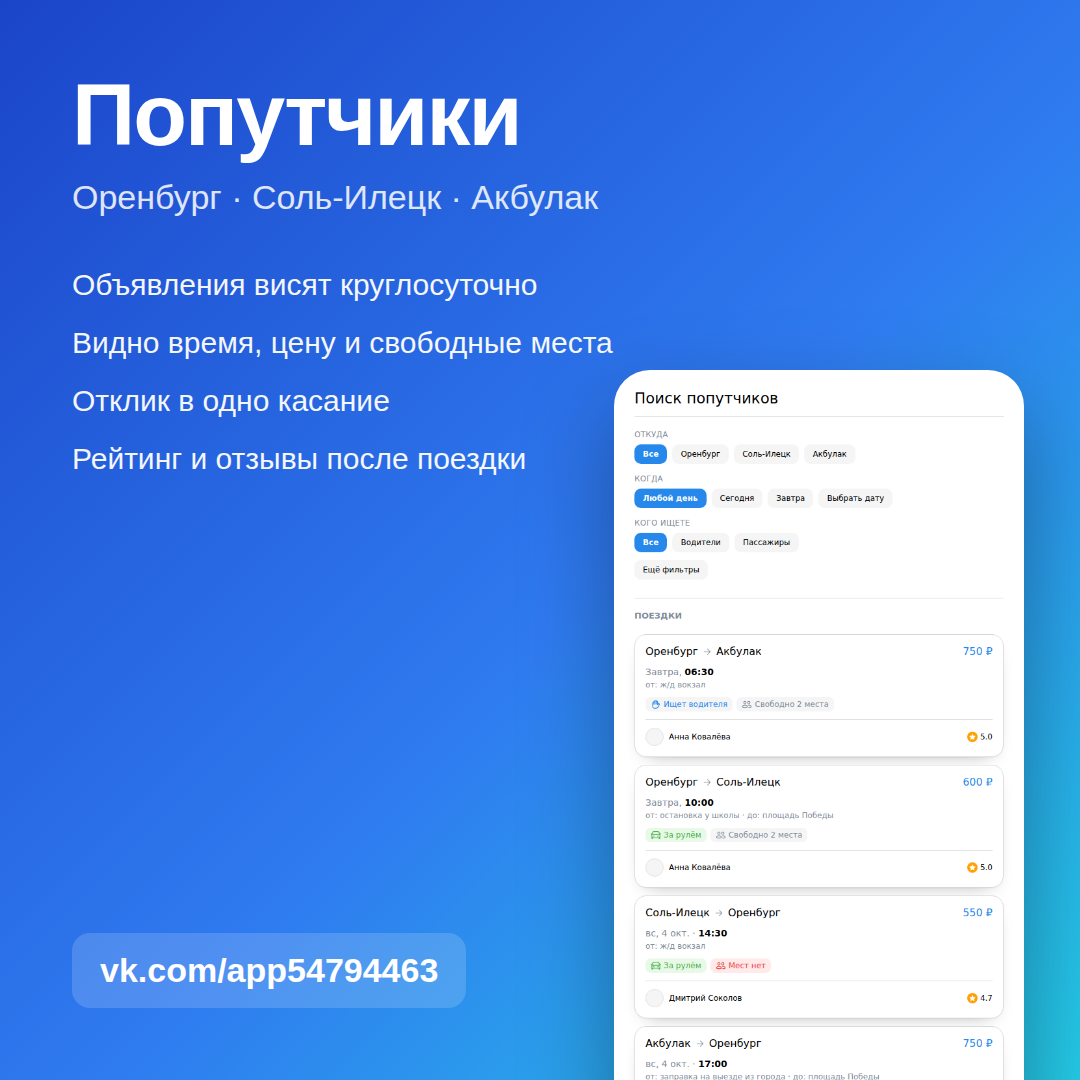
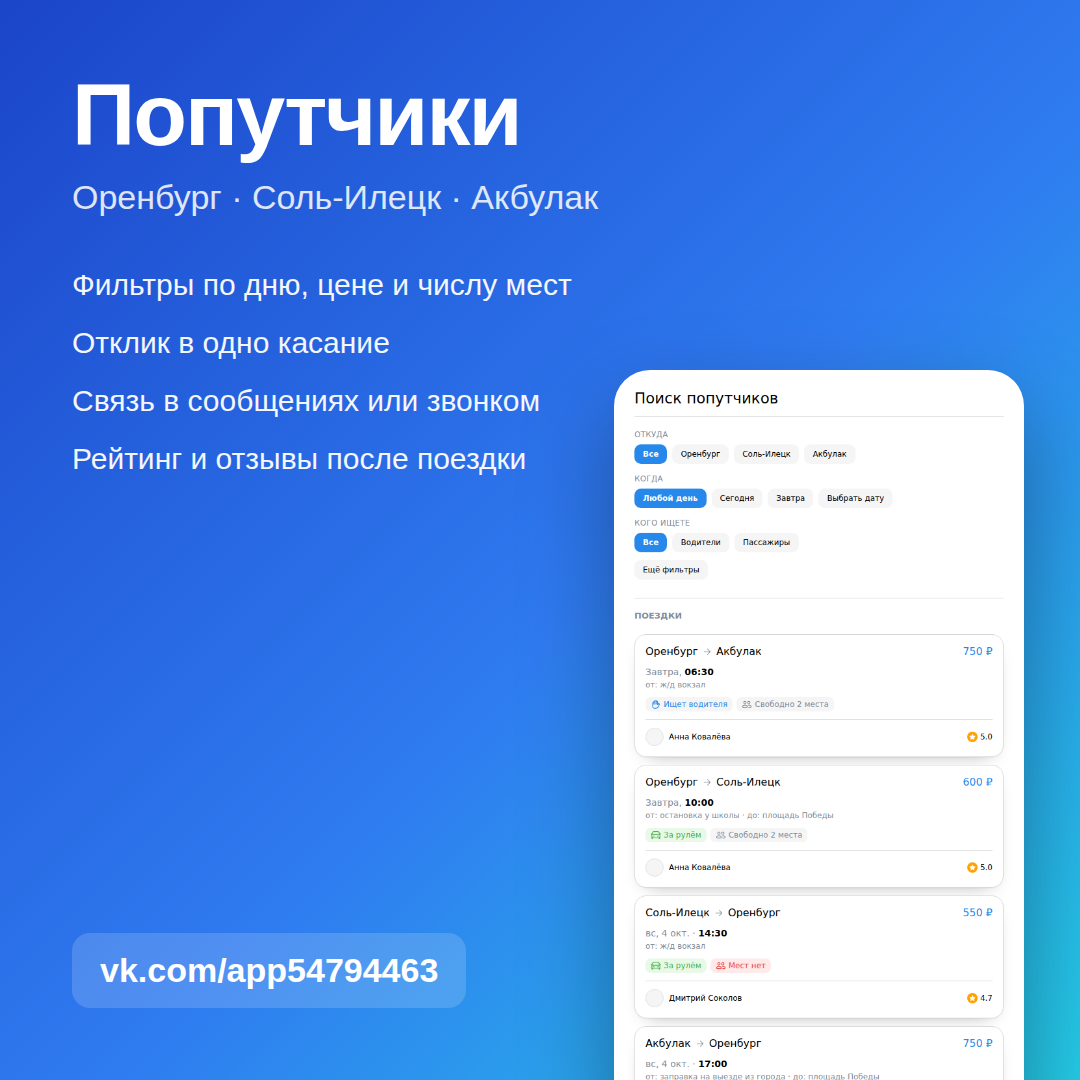
design: переписан пост для паблика, убраны два довода
Из всех трёх вариантов текста и с обложки убраны «объявления висят
круглосуточно» (то же самое есть у конкурента, преимуществом не читается)
и «комиссию не берём» (при будущей монетизации для водителей эту фразу
начнут цитировать против нас).

Пост для паблика переписан: приложение теперь описано по качествам —
фильтры, роль автора, отклики с пересчётом мест, два способа связи,
рейтинг, автоснятие прошедших поездок. Сравнение с конкурентом сведено к
трём пунктам: плохо работает, старый интерфейс, мало функций.

Конкурент нигде не назван; в файле добавлен раздел, объясняющий почему, и
раздел о том, каких доводов в текстах нет и по какой причине.

На обложке вместо «круглосуточно» — «Фильтры по дню, цене и числу мест»,
второй пункт заменён на «Связь в сообщениях или звонком», чтобы четыре
довода не повторяли друг друга.

Claude-Session: https://claude.ai/code/session_01RjM5KUjrPyMD97q32CVPv1

Changed region(s): [[0.0611, 0.3056, 0.5806, 0.3361], [0.0611, 0.3667, 0.5194, 0.3972], [0.0611, 0.2444, 0.5194, 0.275]]

diff --git a/design/promo/_promo-main.html b/design/promo/_promo-main.html
@@ -45,9 +45,9 @@
     <h1>Попутчики</h1>
     <div class="sub">Оренбург · Соль-Илецк · Акбулак</div>
     <div class="points">
-      <div>Объявления висят круглосуточно</div>
-      <div>Видно время, цену и свободные места</div>
+      <div>Фильтры по дню, цене и числу мест</div>
       <div>Отклик в одно касание</div>
+      <div>Связь в сообщениях или звонком</div>
       <div>Рейтинг и отзывы после поездки</div>
     </div>
   </div>

diff --git a/design/promo/post-text.md b/design/promo/post-text.md
@@ -5,6 +5,9 @@
 откроется страница с плашкой «доступно только автору», и вся реклама
 уйдёт впустую.
 
+Конкурент нигде не назван по имени намеренно — см. «Про сравнение с
+конкурентом» в конце файла.
+
 ---
 
 ## Вариант 1 — пост в городском паблике ВКонтакте
@@ -13,24 +16,50 @@
 охотнее, когда рекомендует «свой».
 
 ```
-Кто ездит Оренбург — Соль-Илецк — Акбулак, вам пригодится.
+Кто ездит Оренбург — Соль-Илецк — Акбулак, тут для вас кое-что сделали.
 
-Знакомая история: нужно уехать завтра утром, пишешь в три чата, ждёшь,
-пока кто-нибудь ответит, а список попутчиков выкладывают дай бог пару раз
-в неделю.
+Как мы ищем попутчиков сейчас, вы и без меня знаете. Пользуемся тем, что
+есть, потому что выбора не было: грузится через раз, половина кнопок не
+нажимается, выглядит так, будто сайт собрали лет десять назад и с тех
+пор не открывали. Нашёл поездку — и дальше выясняй всё в личке с нуля:
+во сколько, откуда, сколько мест ещё осталось.
 
-Ребята сделали приложение прямо во ВКонтакте — открывается по ссылке, 
-ставить ничего не надо.
+Наши ребята сделали своё приложение — «Попутчики». Работает прямо во
+ВКонтакте: открывается по ссылке, качать и ставить ничего не нужно.
 
-Что там есть:
-— объявления висят круглосуточно, а не по расписанию админа
-— сразу видно время выезда, цену и сколько мест свободно
-— откликаешься в одно касание, водитель сам решает, кого взять
-— после поездки оставляете друг другу отзывы, и в следующий раз понятно,
-  с кем едешь
+Что в нём есть:
 
-Денег приложение не берёт — рассчитываетесь с водителем напрямую, как и
-раньше.
+🔎 Поиск, который действительно ищет. Шесть направлений между тремя
+городами, фильтры по дню, по цене, по числу свободных мест и по тому, кто
+вам нужен — водитель или пассажир. Не листаете всё подряд, а сразу
+видите своё.
+
+🚗 Водители и пассажиры наравне. Можно не только предложить места, но и
+дать объявление «ищу, кто подвезёт», — и водители найдут вас сами.
+
+📝 Объявление за минуту. Направление, дата, время с шагом полчаса,
+сколько мест и цена за место — и оно уже в поиске. Без переписки с
+администратором и ожидания, когда он до вас дойдёт.
+
+✅ Отклики вместо хаоса в личке. Нажали «Откликнуться» — автор видит
+заявку и сам решает, кого взять. Свободные места пересчитываются
+автоматически, так что трёх человек на одно сиденье не случится.
+
+📞 Связь на выбор. Кнопка «Написать» ведёт на страницу ВКонтакте, кнопка
+«Позвонить» — сразу набирает номер, если человек его оставил. А номер
+подставляется из профиля ВКонтакте в одно касание, вводить вручную не
+обязательно.
+
+⭐ Рейтинг и отзывы. После поездки вы оцениваете друг друга. Через месяц
+по человеку уже видно: пунктуальный он или из тех, кто опаздывает на час
+и не предупреждает.
+
+🧹 Порядок в списке. Поездка, время которой прошло, уходит из поиска
+сама. Никаких «а вы ещё едете?» на объявление трёхдневной давности.
+
+И отдельно — оно просто нормально сделано. Открывается быстро, ничего не
+отваливается на полпути, на телефоне выглядит как настоящее приложение, а
+не как сайт из нулевых, растянутый на экран.
 
 Попробуйте: ССЫЛКА
 ```
@@ -42,8 +71,10 @@
 ```
 Попутчики Оренбург — Соль-Илецк — Акбулак теперь в приложении ВКонтакте.
 
-Объявления висят круглосуточно, видно время, цену и свободные места.
-Откликнулся — и поехали. Комиссии нет.
+Поиск по направлению и дню, в списке сразу видно время, цену и сколько
+мест осталось. Отклик в одно касание, связь в сообщениях или звонком,
+рейтинг и у водителей, и у пассажиров. Открывается по ссылке, ставить
+ничего не нужно.
 
 ССЫЛКА
 ```
@@ -58,9 +89,11 @@
 Приложение для попутчиков по нашим направлениям — Оренбург, Соль-Илецк,
 Акбулак. Работает прямо во ВКонтакте, скачивать ничего не нужно.
 
-Главное отличие от чатов и групп: объявления там не теряются и висят
-постоянно. Видно, кто когда едет, почём и сколько мест осталось. Плюс
-рейтинг — видно, с кем имеешь дело.
+Я до этого пользовался тем, что было, и каждый раз мучался: грузится
+через раз, из функций — только список, дизайн как из нулевых. Здесь всё
+наоборот. Открылось сразу, фильтры по дню, цене и числу мест, в списке
+видно, сколько места осталось, отклик — одна кнопка. Плюс рейтинг и
+отзывы: понятно, с кем садишься в машину.
 
 Ссылка: ССЫЛКА
 ```
@@ -71,7 +104,7 @@
 
 1. **`promo-1080.png`** — обложка. Этого достаточно для поста.
 2. **Скриншоты из `design/store/`** — если площадка разрешает несколько
-   картинок, добавьте вторым и третьим «Поиск» и «Поездка».
+   картинок, добавьте вторым и третьим «Поиск» и «Поездку».
 
 ## Про видео
 
@@ -85,3 +118,32 @@
 
 Нарисованная или собранная из кадров анимация в таком посте читается как
 реклама, а живая запись — как «вот человек нажал и получилось».
+
+## Про сравнение с конкурентом
+
+В текстах конкурент описан, но не назван. Это сознательно, по трём
+причинам:
+
+1. **Админ паблика охотнее возьмёт такой пост.** Пост, прямо бьющий по
+   названию другого сервиса, многие городские паблики не публикуют —
+   особенно если тот у них когда-то размещался.
+2. **Конкретное название — это заявление, за которое отвечаете вы.**
+   «Работает плохо» про безымянный «тот, что был» — это мнение
+   рассказчика. То же самое про названный сервис — утверждение о чужом
+   продукте, и спор по нему придётся вести вам.
+3. **Так просто работает лучше.** Читатель сам подставляет в пропуск то,
+   чем пользовался, и соглашается с собственным опытом, а не с вашим
+   выпадом. Названное имя, наоборот, даёт конкуренту бесплатную рекламу
+   и переводит пост в формат «две фирмы ругаются».
+
+Если всё же захотите назвать — меняйте только абзац про «то, что было», и
+пишите исключительно проверяемое: не работает, мало умеет, старый
+интерфейс. Это ровно то, что вы и просили оставить в сравнении.
+
+## Чего в текстах намеренно нет
+
+- **Круглосуточных объявлений.** Это есть и у конкурента, преимуществом
+  не читается.
+- **«Комиссию не берём».** Если дальше появится монетизация для
+  водителей, эта фраза в старых постах сработает против вас — её будут
+  цитировать. Лучше вообще не начинать этот разговор в рекламе.
